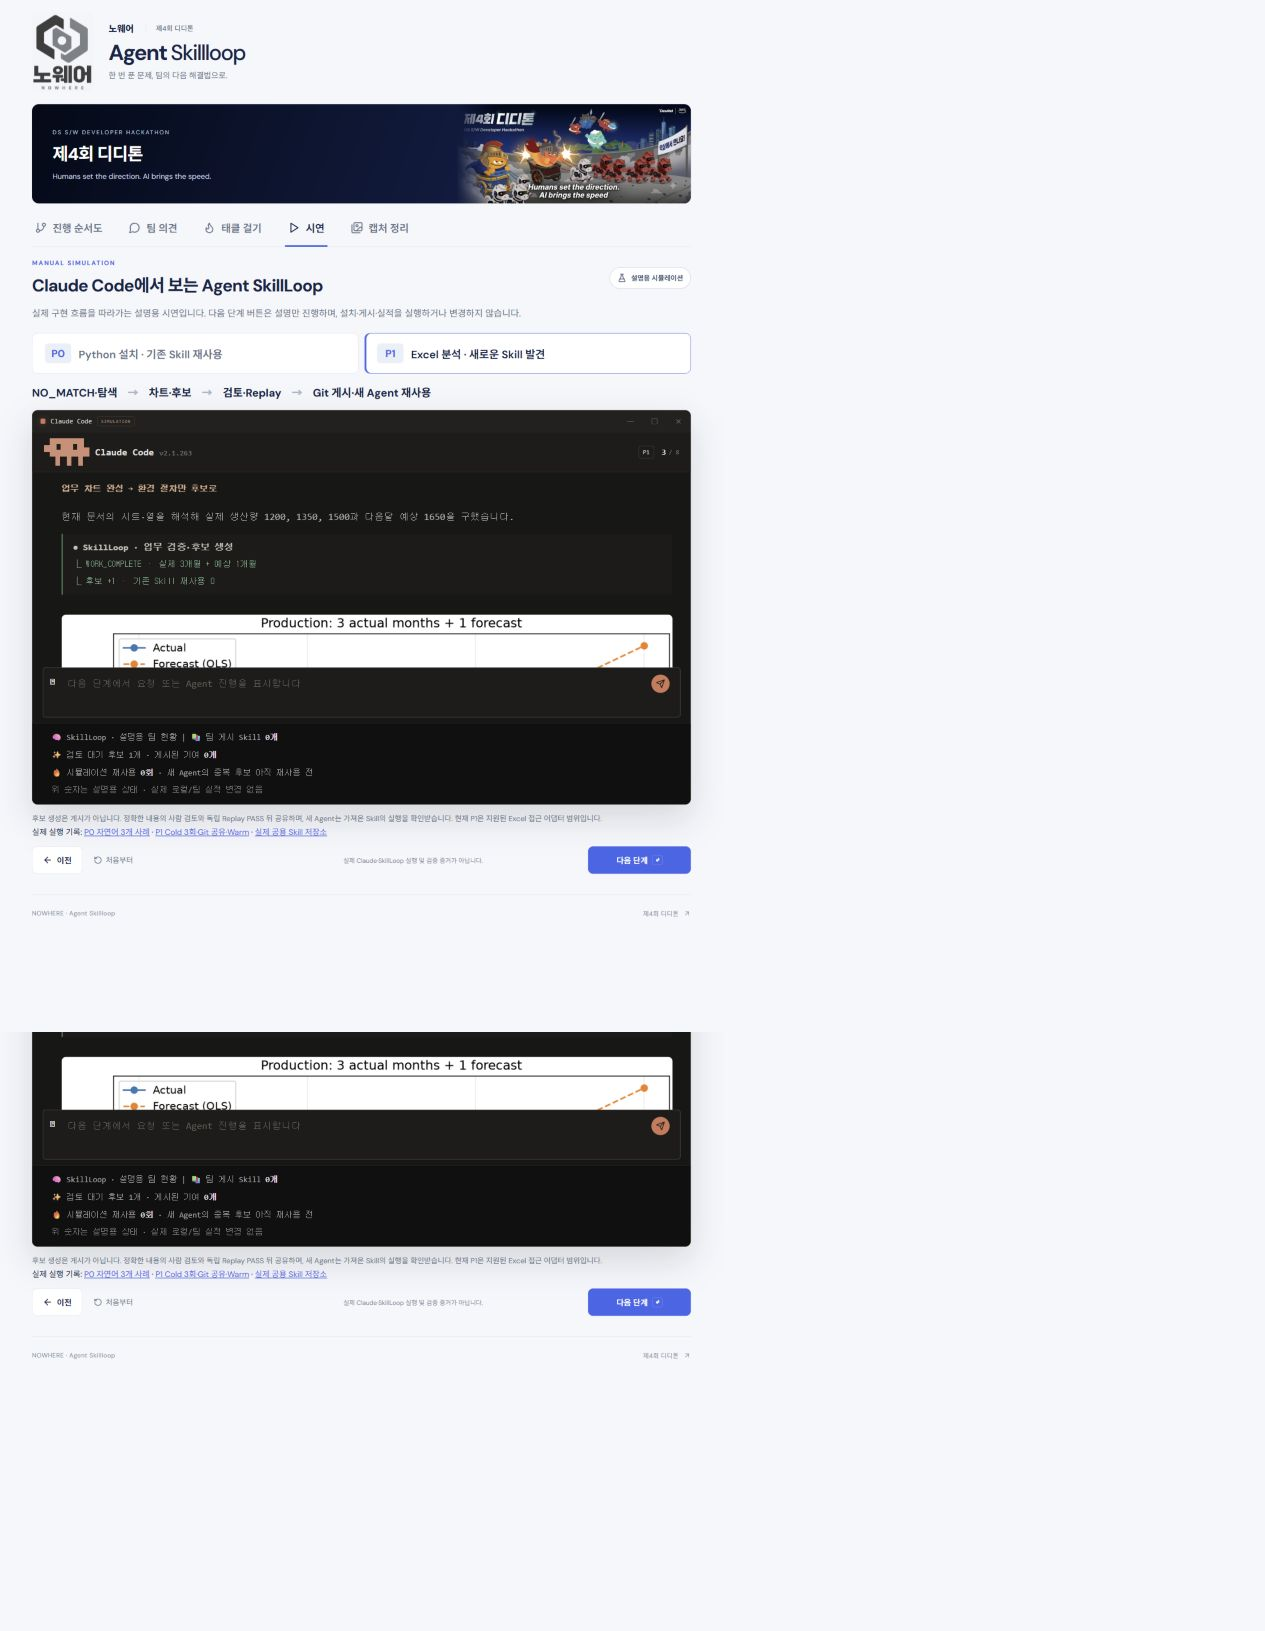
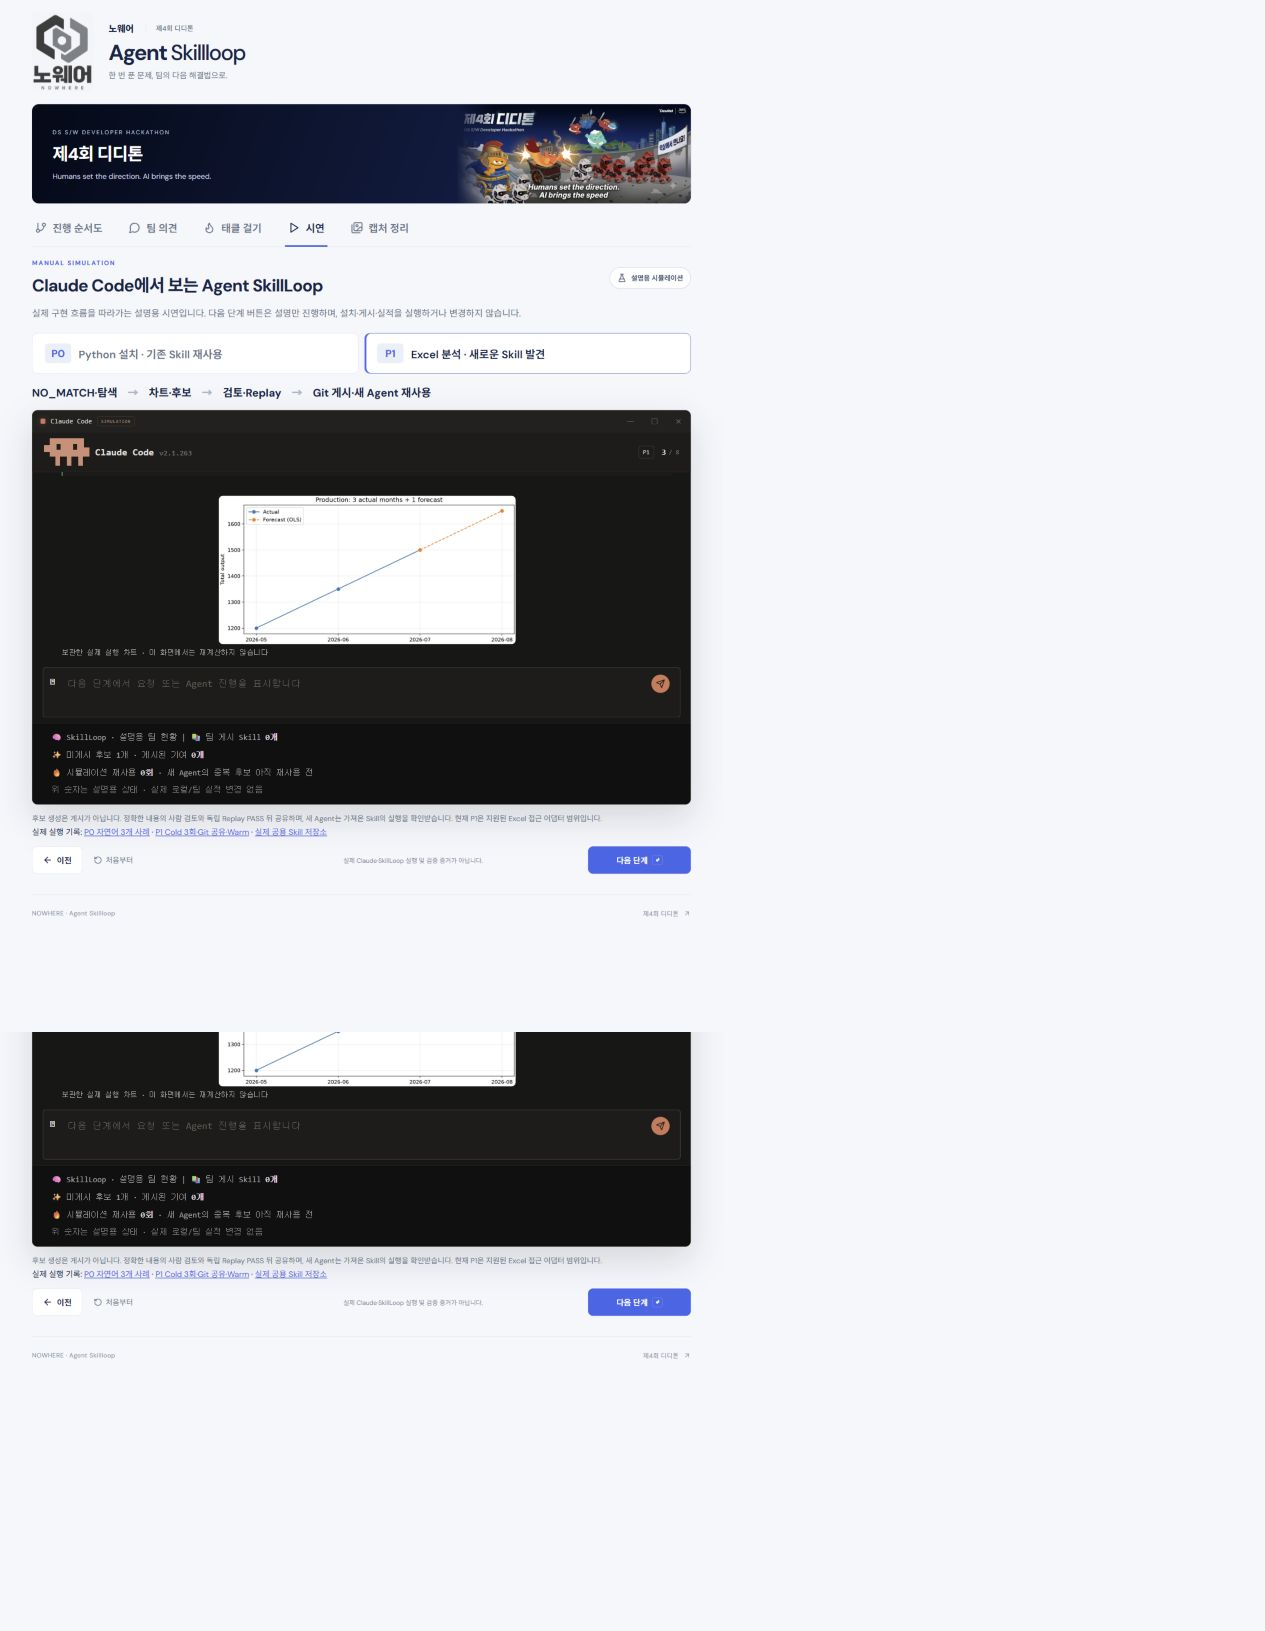
docs: record final UI verification and successful main deployment

Changed region(s): [[0.0308, 0.3066, 0.5549, 0.4292], [0.0308, 0.6131, 0.5549, 0.7051]]

diff --git a/aidlc-docs/aidlc-state.md b/aidlc-docs/aidlc-state.md
@@ -8,8 +8,8 @@
 - **공유 근거**: `team-skill-store` Skill 게시 `28809464218e7328c7184a20bcafebb0e1b18916`, 재사용 이벤트 `04d831066e0fcdae3217412385e37dc0f08cae58`. 별도 mirror/store 수신, receiver local approval/Replay=null. 이벤트 첫 import1/반복0, 조직 총계1.
 - **기존 회귀**: 139 PASS/2 SKIP 및 별도 실제 Excel 1 PASS; GitHub CI run34235737366(91dcf82) success. 최신 검토 main75ef7e0도 run34242335266 success 확인. 로컬 테스트 수·CI·추가 사용자 시나리오 수는 합산하지 않음.
 - **A/B 인수**: A PR#1 실제 merge `58adce9`, B 원작성 이력 merge `99cc4e5`. CJ가 완료 인수 코드 통합을 담당; A/B 동시 수정 대기 없음. B 다음 역할은 별도 PC Git 공유 시연 재현.
-- **U3 표현 정합화**: 수신 환경 팀1/로컬0, exact 게시 기반 기여/인기 순위, 이벤트 중복 제외 검증 완료. 전체142 PASS/2 SKIP. 웹 설명 P0 4단계/P1 8단계·실제 차트·버튼 이전/초기화 검증 완료. 웹 소스main 포함·기존 Pages 배포는 승인 계획대로 진행 중.
-- **남은 것**: B PC 실제 재현 NOT_RUN, 최종 GitHub CI/Pages 배포 확인·갤러리/제출 검토. 현재 제품 lifecycle 변경 없이 U3 읽기 표현만 정정했다.
+- **U3 표현 정합화**: 수신 환경 팀1/로컬0, exact 게시 기반 기여/인기 순위, 이벤트 중복 제외 검증 완료. 전체142 PASS/2 SKIP. 웹 설명 P0 4단계/P1 8단계·실제 차트·버튼 이전/초기화 검증 완료. 웹 소스main 포함·기존 Pages 배포 완료. 검증 소스935b8ec Python CI34287993633/Pages34287993826 모두success.
+- **남은 것**: B PC 실제 재현 NOT_RUN, 최종 갤러리/제출 검토. GitHub CI/Pages는935b8ec에서success 확인 완료. 현재 제품 lifecycle 변경 없이 U3 읽기 표현만 정정했다.
 - **기록**: `result/p1-acceptance/`, `construction/build-and-test/`. 추가 Cold/Warm 시험 당시 제품 코드/C9 불변. 이후 승인된 U3 표현 정정은 별도 기록. 공식 AI-DLC 규칙 불변. 기존 audit append-only, UTC 시각 매번 취득. S3/DB adapter는 구현 아닌 확장안.
 
 
@@ -30,7 +30,7 @@
 - **Project Type**: Greenfield
 - **Start Date**: 2026-09-08T14:45:14Z
 - **Current Phase**: CONSTRUCTION
-- **Current Stage**: CONSTRUCTION / 통합 Build & Test — P1 추가 Cold3/Warm1, 사람 승인·독립 Replay·GitHub 게시/usage 왕복 PASS. U3 표현 정정·142PASS/2SKIP 완료. 최종 CI/Pages·B PC 재현·제출 검토 남음.
+- **Current Stage**: CONSTRUCTION / 통합 Build & Test — P1 추가 Cold3/Warm1, 사람 승인·독립 Replay·GitHub 게시/usage 왕복 PASS. U3 표현 정정·142PASS/2SKIP 완료. CI/Pages success 확인. B PC 재현·최종 제출 검토 남음.
 - **(이전) Current Stage**: **CONSTRUCTION 진입 — Units Generation 승인됨(정정 3건 반영, 2026-09-08)**. 다음: U0 P0 필수 + U1 최소 Functional Design → NFR Requirements(minimal) → Code Plan. **정정**: (1) U3 소유자=**CJ**('여력' 폐기), UI·조직 집계는 승인된 **필수 범위**(P0 비블로킹 ≠ 선택 기능); **U2(B) Day2 대기 해제**(계약+게이트 충족 시 즉시 병행 착수). (2) **파일별 단일 수정자**: usage.py=CJ(카운트+공유 이벤트), cli.py=CJ, gitsync.py=B(전송; 검증·dedup은 usage.py=CJ), envharness_p0.py=CJ/envharness_p1.py=B('함수별 분담' 폐기); U3 집계·표현=읽기전용, C3 공유 이벤트 import=상태 변경(쓰기). (3) 계약 5 **비블로킹**으로 정정, U0 전체 완료 대기 없이 P0 최소 계약+로컬 저장·카운트·환경 인터페이스 확정 후 U0/U1 **병렬**. **코드 작성은 설계·Code Plan 승인 + 공통 기준 SHA·작업 경로 확인 후.**
 - **(이전) Units Generation (minimal) — 산출물 생성 완료**: Unit 정의(U0 공통·계약·통합/CJ, U1 P0 재사용 실행/A 최호길, U2 P1 경험·후보화·게시/B 한석훈, U3 조직 집계·표현·재사용 이벤트 공유, Q1 독립 QA 횡단/C 윤여훈), 의존성·계약 동결(1~8, P0 최소셋=1·3·4)·착수 순서(17:30 P0 앵커)·스토리 매핑(7개 전부 배정). 산출물: `application-design/unit-of-work.md`, `unit-of-work-dependency.md`, `unit-of-work-story-map.md`, `plans/unit-of-work-plan.md`.
 - **(이전) Application Design Request Changes(2건 계약 보완)**: (1) **C10 상태 조회 경로**: S3에 읽기전용 상태 조회 계약(`list_lifecycle_states`/`query_lifecycle_state`, `remote_publish_evidence`/`local_review_evidence`) 신설, C10은 이를 통해서만 상태 조회(추정·게이트 재구현 금지). (2) **재사용 이벤트 공유 자격 분리**: `export_shared_usage(scope=VERIFIED_REUSE)`로 Skill 게시 게이트(SHAREABLE)와 분리, C3가 검증·event_id dedup, `sync`→C3/C4.push_shared_usage 경로는 S3.publish와 독립(A게시→B import→B 검증 성공→B 공유→A 1회 반영). 의존성 매트릭스·다이어그램·텍스트대안(C4→C3, C10→S3, localhost HTTP)·"네트워크 서비스 없음" 범위·UI 프레임워크 단계 표기·채택 repo/branch vs 미정 로컬 경로 정합화. **Application Design 전체 승인·Units Generation은 재검토 후 결정**(REVIEW REQUIRED).
@@ -80,7 +80,7 @@
 ## Execution Plan Summary
 - **실행**: User Stories(minimal), Application Design, Units Generation, Functional Design(per-unit), NFR Requirements(per-unit, minimal), Code Generation, Build and Test
 - **생략**: Reverse Engineering(N/A), NFR Design, Infrastructure Design, Operations(placeholder)
-- **다음 단계**: 최종 CI/Pages 확인, B PC에서 게시 Skill 가져오기·Warm·usage 공유 시연, 최종 결과 검토. 기존 Application Design/Units 승인을 재요청하지 않는다.
+- **다음 단계**: B PC에서 게시 Skill 가져오기·Warm·usage 공유 시연, 최종 결과 검토. 기존 Application Design/Units 승인을 재요청하지 않는다.
 - **문서**: aidlc-docs/inception/plans/execution-plan.md
 
 ## 승인된 SKIP 경계 (Workflow Planning 승인 시 확정)

diff --git a/aidlc-docs/construction/plans/final-presentation-alignment-plan.md b/aidlc-docs/construction/plans/final-presentation-alignment-plan.md
@@ -1,4 +1,4 @@
-# Final presentation alignment — APPROVED / implementing
+# Final presentation alignment — implemented and verified
 
 ## Review basis and current decision
 
@@ -19,9 +19,9 @@ Updated fact: Python CI on latest reviewed main 75ef7e0 succeeded (run3424233526
 - [x] 1. U3 org_aggregator.py/statusline.py (dashboard.py only for consistent labels): add separate organization ranking/contribution view. Published exact refs come from S3 query; map authors from corresponding descriptors; count verified events by exact ref/event id. Show local vs synchronized team counts separately; never add local count to its already-included shared event. Unlinked/unknown remains explicit. Keep demo counts separate. Do not relabel existing author `local` as a real teammate or alter digest.
 - [x] 2. tests/test_org_aggregator.py and tests/test_statusline.py: remote-only event appears with local=0/team=1; same event local+shared is team1, not2; repeated import unchanged; unpublished candidate excluded from team contribution; stale version/digest does not inflate current ref; unknown sync is not0. Run affected UI tests and relevant usage tests. Verify actual recorded receiver snapshot displays team1 without modifying it.
 - [x] 3. In an isolated worktree based on team-hub 49c1711, update team-hub/src/Demo.tsx and only necessary style/assets. One ordinary work prompt; P0 package-supply failure, agent search/application and verification. P1 observed direct failure, current team Skill NO_MATCH, discovered existing-Excel read-only access, real3+forecast1 graphic, environment-only candidate, exact review, independent Replay, Git publication and new Agent Warm candidate0. Buttons advance explanation, not extra user recovery instructions. Show manual simulation label and keep simulated counters independent of real execution evidence. Link actual logs/charts separately. No unsupported Org Knowledge search claim.
-- [ ] 4. Review and include required current team-hub source/lockfile/config/licenses/run instructions in main/submission. Preserve branch authors/history and existing community behavior; do not merge old main/rule/audit files from the web branch. Check active branch divergence before changes; coordinate if another writer appears. Document the presentation provenance and its approved submission scope. Test/build using current package scripts; inspect P0/P1 progression and graph/review/Replay/Warm in browser. Fix content before adding animations. Deploy only tested approved web revision through existing pipeline.
+- [x] 4. Review and include required current team-hub source/lockfile/config/licenses/run instructions in main/submission. Preserve branch authors/history and existing community behavior; do not merge old main/rule/audit files from the web branch. Check active branch divergence before changes; coordinate if another writer appears. Document the presentation provenance and its approved submission scope. Test/build using current package scripts; inspect P0/P1 progression and graph/review/Replay/Warm in browser. Fix content before adding animations. Deploy only tested approved web revision through existing pipeline.
 - [x] 5. README/state/build-and-test summary: distinguish P0 three historical natural-language cases from two-package code test; limited supported adapter from arbitrary learned code; trusted Git writers from independent cryptographic proof; Git implementation from possible S3/DB extension; current vs historical sections. Identify exact build/CI/acceptance source SHAs. Preserve all historical audit results.
-- [ ] 6. Run one final relevant regression after product changes; check CI on final submitted code and web build/browser state. Reuse frozen-source Cold/Warm evidence for unchanged P1 behavior; do not repeat all three Cold runs without a new failure/change. B-PC morning reproduction stays separate and does not block independent UI/docs work. Final submission/visual review remains explicit.
+- [x] 6. Run one final relevant regression after product changes; check CI on final submitted code and web build/browser state. Reuse frozen-source Cold/Warm evidence for unchanged P1 behavior; do not repeat all three Cold runs without a new failure/change. B-PC morning reproduction stays separate and does not block independent UI/docs work. Final submission/visual review remains explicit.
 
 ## Completion criteria
 
@@ -40,3 +40,7 @@ Approval covers the preceding complete six-step plan, including bounded web alig
 ## Part 2 current evidence
 
 U3 affected44 PASS; recorded receiver team1/local0 (no writes). Initial combined run141 PASS/2 SKIP/1 FAIL preserved; clarified S3 vs sync assertion and dashboard local labels, focused10 PASS, final142 PASS/2 SKIP. Web6 PASS/build PASS/browser P0/P1/back/reset PASS. Web revisionbe3013f; include source and final CI/Pages receipt next.
+
+## Completion receipt
+
+All six approved steps completed. Product/U3 commit46e1eb6; selective web-history merge935b8ec; web revisionbe3013f. Main and web team-hub tree both0ee12f51d7db3d10fbd325517482a22b3ccf0c5d. Source and root config included; official rules/audit roots not imported from old web branch. Main935b8ec Python CI34287993633 success and Pages34287993826 success; web branch Pages34287992312 success. Public browser P0/P1 passed, served index-BzLmvpnE.js matches tested build. result/final-alignment contains evidence. Final receipt commit changes docs/screenshots only; tested product/web source stays935b8ec. Separate B PC remains NOT_RUN and whole-product submission review is still required.

diff --git a/aidlc-docs/construction/build-and-test/build-and-test-summary.md b/aidlc-docs/construction/build-and-test/build-and-test-summary.md
@@ -2,13 +2,14 @@
 
 ## Current result
 
-P0 natural-language reuse and P1 discovery-to-remote-Warm lifecycle have actual execution evidence. Formal whole-product completion is not declared: B-PC reproduction and final submission/gallery review remain. Team-facing status correction and local browser validation are complete; final CI/deployment receipt follows.
+P0 natural-language reuse and P1 discovery-to-remote-Warm lifecycle have actual execution evidence. Formal whole-product completion is not declared: B-PC reproduction and final submission/gallery review remain. Team-facing status correction and local browser validation are complete; main935b8ec Python CI34287993633 and Pages34287993826 success; public browser P0/P1 progression PASS.
 
 | Evidence | Result | Scope |
 | --- | --- | --- |
 | Existing fixed-seed regression | 139 PASS / 2 SKIP | baseline 96f3c85; seed 20260908; combined unit/local integration |
 | Existing opt-in Excel check | 1 PASS | actual Desktop Excel on CJ PC |
-| GitHub Python CI | success | latest reviewed main75ef7e0: run34242335266, Windows; prior91dcf82: run34235737366 |
+| GitHub Python CI | success | final product/main935b8ec: run34287993633, Windows; older75ef7e0:34242335266 and91dcf82:34235737366 retained |
+| GitHub Pages | success | main935b8ec:34287993826; team-hubbe3013f:34287992312, same web tree |
 | Existing P0 Claude reproductions | 3 completed cases | one earlier transport/permission attempt failed and was preserved |
 | P0 two-package same-Skill test | PASS | pinned local-package minimum generalization, not arbitrary pip |
 | Additional P1 Cold sessions | 3 PASS | different layouts/values; chart; candidate+1/reuse0 each |
@@ -26,4 +27,4 @@ Product/C9 code was frozen during the four additional Agent sessions. Permission
 
 User-approved continuation recorded before tests; actual exact-candidate human decision preceded S3 review; fresh Replay preceded actual Git publication. Failed/intermediate outputs remain. Timestamp is captured anew for each audit entry in UTC ISO 8601. Existing requirements, plan, Unit ownership, team Git ancestry and official rules are preserved. This run does not invent new features or retroactive approval. Enabled partial PBT baseline remains satisfied; no new pure product algorithm was added. Disabled extension suites remain disabled while core NFRs are observed.
 
-Build/install instructions, unit instructions, integration/acceptance instructions and B handoff are in this directory. Operations remains skipped/placeholder in the approved workflow. Approved final-presentation-alignment-plan governs the U3/web correction and deployment. Next is final deployment/CI evidence and B-PC reproduction; no new Inception or unrestricted change period.
+Build/install instructions, unit instructions, integration/acceptance instructions and B handoff are in this directory. Operations remains skipped/placeholder in the approved workflow. Approved final-presentation-alignment-plan governs the U3/web correction and deployment. Deployment/CI receipts are saved in result/final-alignment. Next is B-PC reproduction and final submission review; no new Inception or unrestricted change period.

diff --git a/result/final-alignment/README.md b/result/final-alignment/README.md
@@ -20,8 +20,10 @@ Approved before implementation: aidlc-docs/construction/plans/final-presentation
 
 ## Source and deployment
 
-Main includes team-hub subtree and the existing Pages workflow, preserving web author ancestry while excluding older root rules/audit. Pages checkout now uses triggering github.sha. Web original third-party notices/license are included. Public deployment/CI receipts will be appended after remote confirmation. S3/DB support remains a future adapter, not implemented here.
+Main includes team-hub subtree and the existing Pages workflow, preserving web author ancestry while excluding older root rules/audit. Pages checkout now uses triggering github.sha. Web original third-party notices/license are included. Main935b8ec Python CI34287993633 and Pages34287993826 success. Web branchbe3013f Pages34287992312 success. github-actions.json records exact SHA/status/time. Public browser P0 all4/P1 all8 PASS with no console errors; served index-BzLmvpnE.js matches local production build. Deployed screenshot/DOM files are separate from localhost captures. S3/DB support remains a future adapter, not implemented here.
 
 ## Remaining human/environment check
 
 Separate B-PC Warm/Git roundtrip remains NOT_RUN. No more repeated same-source Cold tests are required by this correction. Final submission/gallery approval is not assumed.
+
+Source ancestry: webbe3013f is an ancestor of main935b8ec. Both team-hub tree IDs are0ee12f51d7db3d10fbd325517482a22b3ccf0c5d. Existing generated diagram JSON carries CRLF reported by diff whitespace checking during subtree import; retained unchanged from the author branch. Build and pipeline validation passed. Official CLAUDE.md/.aidlc-rule-details paths have no diff from75ef7e0. Final receipt commit changes only documentation/evidence, not tested code.

diff --git a/aidlc-docs/audit.md b/aidlc-docs/audit.md
@@ -844,3 +844,8 @@ Implemented read-only U3 exact published/event projection and aligned existing t
 ## 2026-09-08T22:51:20.292405+00:00 — Final local regression complete
 
 142 PASS/2 SKIP, seed20260908,239.68s after explicit S3-vs-sync test assertion and dashboard local-scope labels. No warning in final run. Earlier failure/warning retained in pytest-first-failure.txt. Web production build and6 tests PASS; browser charts/progression/reset PASS. Integrating tested web source plus workflow only, preserving web author ancestry and main rule/audit roots. Remote CI/Pages not yet claimed.
+
+
+## 2026-09-08T22:58:36.126132+00:00 — Final alignment remote verification complete
+
+User-approved six-step plan complete. Main935b8ec and webbe3013f pushed without force, web author ancestry preserved through selective subtree merge. Exact web tree0ee12f51d7db3d10fbd325517482a22b3ccf0c5d matches both branches; existing generated diagram CRLF preserved despite diff whitespace notices. Main Python CI34287993633 success, main Pages34287993826 success; web Pages34287992312 success. Public browser P0/P1 progression and archived chart rendering PASS; served index-BzLmvpnE.js matches tested production build. Evidence result/final-alignment. No live Firebase writes; no new P1/Cold reruns; no official rule changes. Final receipt is documentation/evidence only; whole-product submission review and separate B-PC reproduction remain.
